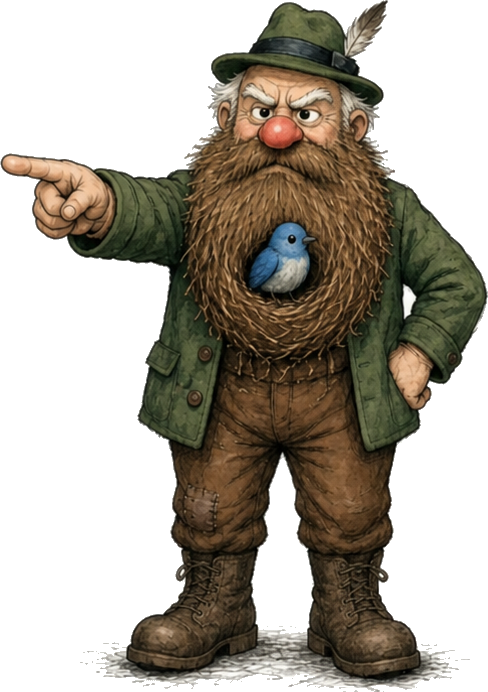
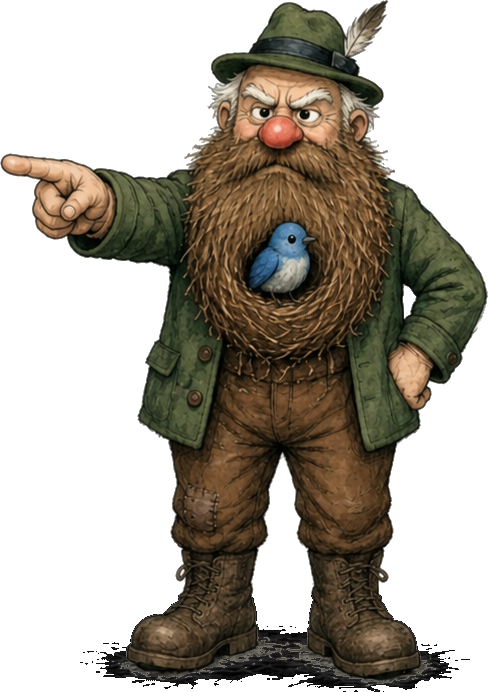
Förster Moos: schwarzer Bodenschatten, weiße Lücke im Arm entfernt
Claude-Session: https://claude.ai/code/session_01WRaeiUW1SS7Jnky8dn2gGr

Changed region(s): [[0.1844, 0.9104, 0.9221, 1.0]]

diff --git a/klapperkiste/tools/einmalig/moos_schatten.py b/klapperkiste/tools/einmalig/moos_schatten.py
@@ -1,0 +1,78 @@
+"""Einmalige Bearbeitung: Förster Moos, schwarzer Bodenschatten und Armlücke.
+
+1. Der Schatten unter den Stiefeln ist bei allen vier Gesten hell (weißgraue
+   Schraffur). Helle, fast farblose Pixel im unteren Bereich werden dunkel
+   gefärbt; die Schraffur bleibt als Helligkeitsunterschied erhalten. Die
+   braunen Stiefel sind farbig und bleiben unverändert.
+2. Bei „auftrag“ (Hand in der Hüfte) bleibt zwischen Arm und Jacke ein weißer
+   Fleck. Er wird von einem Punkt aus gefüllt und durchsichtig gemacht.
+
+Aufruf:
+  python klapperkiste/tools/einmalig/moos_schatten.py
+"""
+
+from __future__ import annotations
+
+import os
+import sys
+
+from PIL import Image
+
+ROOT = os.path.abspath(os.path.join(os.path.dirname(__file__), "..", ".."))
+MOOS = os.path.join(ROOT, "assets", "charaktere", "moos")
+GESTEN = ["hallo", "nachdenken", "auftrag", "juhu"]
+SCHATTEN_AB = 0.86          # Schatten liegt unterhalb dieses Höhenanteils
+ARMLUECKE = ("auftrag", (408, 300))
+
+
+def hell_und_grau(r: int, g: int, b: int) -> bool:
+    return min(r, g, b) > 110 and max(r, g, b) - min(r, g, b) < 40
+
+
+def schatten_schwarz(bild: Image.Image) -> int:
+    px = bild.load()
+    n = 0
+    for y in range(round(bild.height * SCHATTEN_AB), bild.height):
+        for x in range(bild.width):
+            r, g, b, a = px[x, y]
+            if a and hell_und_grau(r, g, b):
+                hell = (r + g + b) / 3
+                v = round((255 - hell) * 0.35)   # helle Schraffur wird fast schwarz
+                px[x, y] = (v, v, v, a)
+                n += 1
+    return n
+
+
+def luecke_frei(bild: Image.Image, start: tuple[int, int]) -> int:
+    px = bild.load()
+    if not hell_und_grau(*px[start][:3]):
+        raise SystemExit(f"Startpunkt {start} ist nicht weiß: {px[start]}")
+    stapel, gesehen, n = [start], {start}, 0
+    while stapel:
+        x, y = stapel.pop()
+        r, g, b, a = px[x, y]
+        if not (a and min(r, g, b) > 170 and max(r, g, b) - min(r, g, b) < 40):
+            continue
+        px[x, y] = (r, g, b, 0)
+        n += 1
+        for nb in ((x + 1, y), (x - 1, y), (x, y + 1), (x, y - 1)):
+            if 0 <= nb[0] < bild.width and 0 <= nb[1] < bild.height and nb not in gesehen:
+                gesehen.add(nb)
+                stapel.append(nb)
+    return n
+
+
+def main() -> int:
+    for geste in GESTEN:
+        pfad = os.path.join(MOOS, f"{geste}.png")
+        bild = Image.open(pfad).convert("RGBA")
+        info = f"Schatten {schatten_schwarz(bild)} px"
+        if geste == ARMLUECKE[0]:
+            info += f", Armlücke {luecke_frei(bild, ARMLUECKE[1])} px"
+        bild.save(pfad)
+        print(f"{geste}: {info}")
+    return 0
+
+
+if __name__ == "__main__":
+    sys.exit(main())
